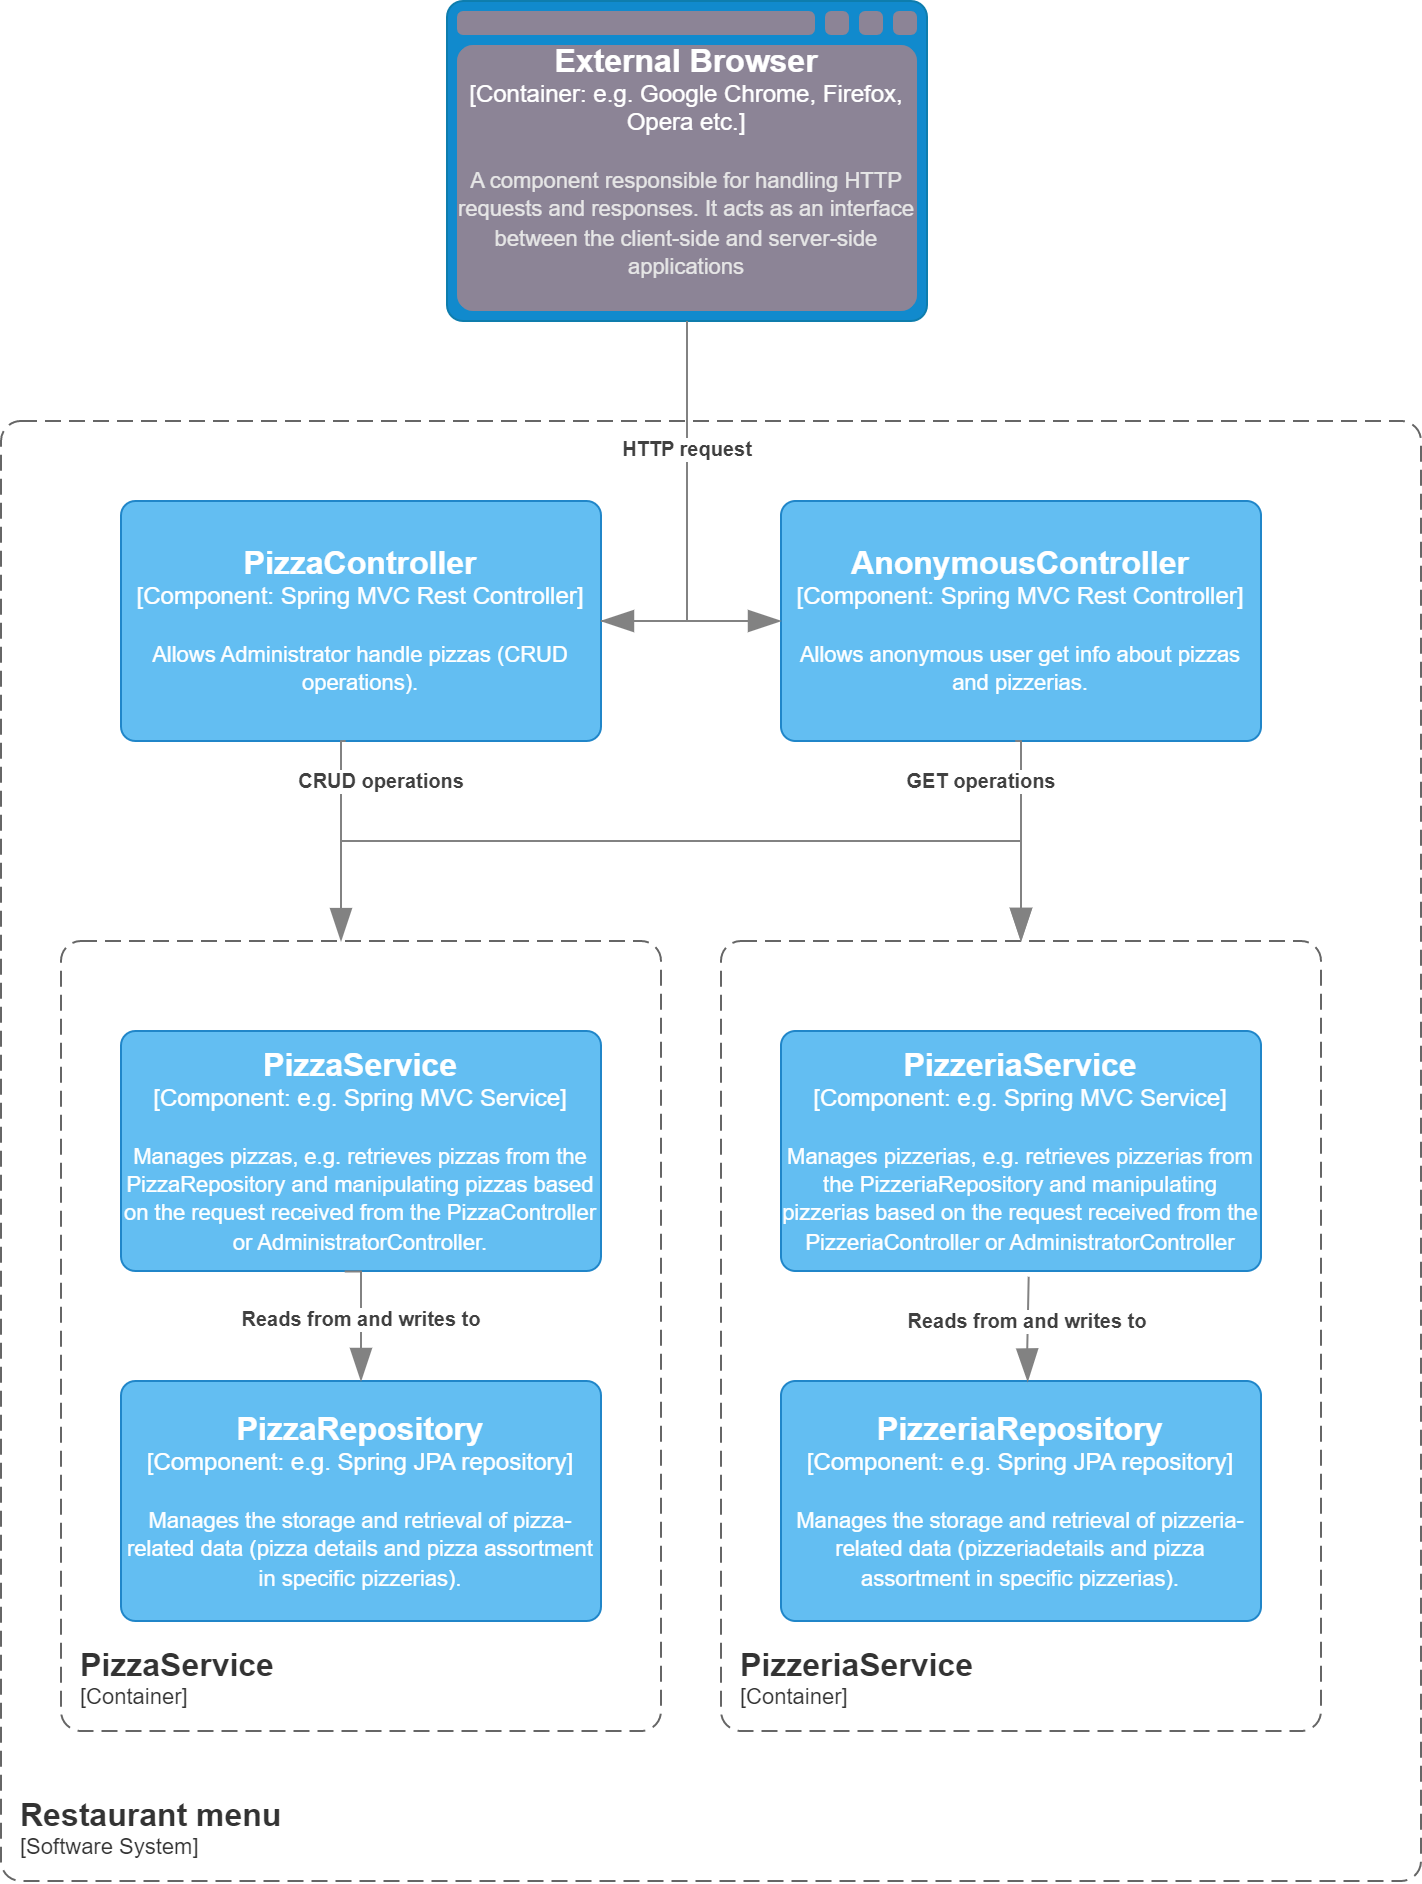
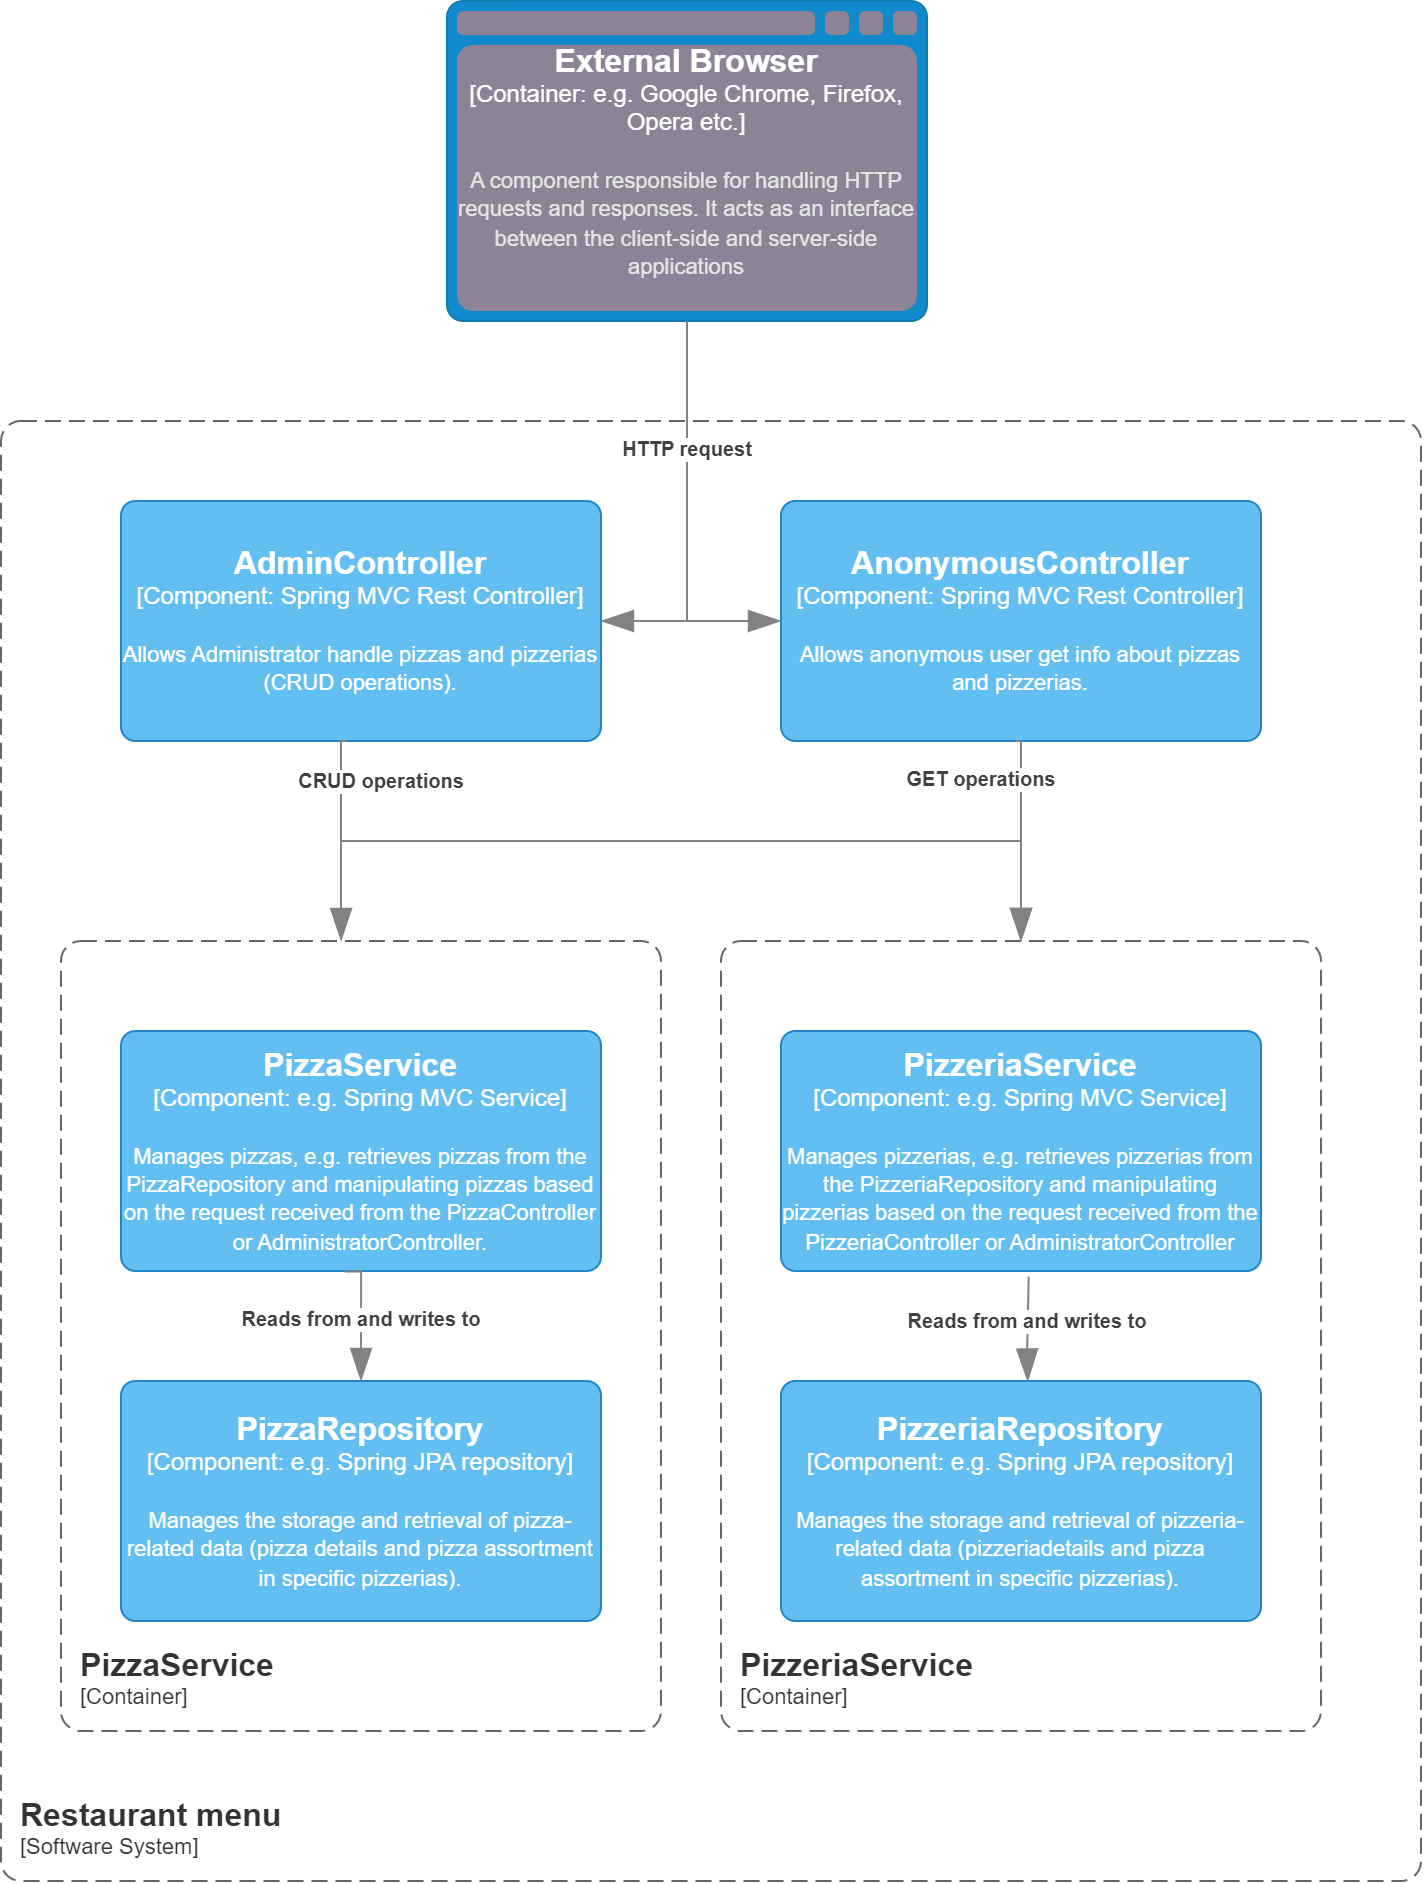
Components Diagram small fix

diff --git a/README.md b/README.md
@@ -34,11 +34,10 @@ It handles authentication, routing, business logic and interacts with the databa
 
 The components diagram shows the internal components of the Application API. 
 Here, the External Browser component represents the REST API that receives and responds to requests. 
-This is the outside component. </br>
-**PizzaController**: A controller component responsible for handling HTTP requests related to pizzas, 
-such as getting the menu, searching for a pizza, and managing pizzas (CRUD operations) for the administrator.</br>
-**PizzeriaController**: A controller component responsible for handling HTTP requests related to pizzerias, 
-such as getting a list of pizzerias, searching for a pizzeria by address, and managing pizzerias (CRUD operations) for the administrator.</br>
+This is the outsource component. </br>
+**AdminController**: A controller component responsible for handling HTTP requests that requires
+authentication, such as getting the menu, searching for a pizza, and managing pizzas (CRUD operations), 
+getting a list of pizzerias, searching for a pizzeria by address, and managing pizzerias (CRUD operations).</br>
 **AnonymousController**: A controller component responsible for handling HTTP requests that do not require 
 authentication, such as getting the menu, searching for a pizza, getting a list of pizzerias, 
 searching for a pizzeria by address, and getting pizza assortment for a specific pizzeria.</br>
